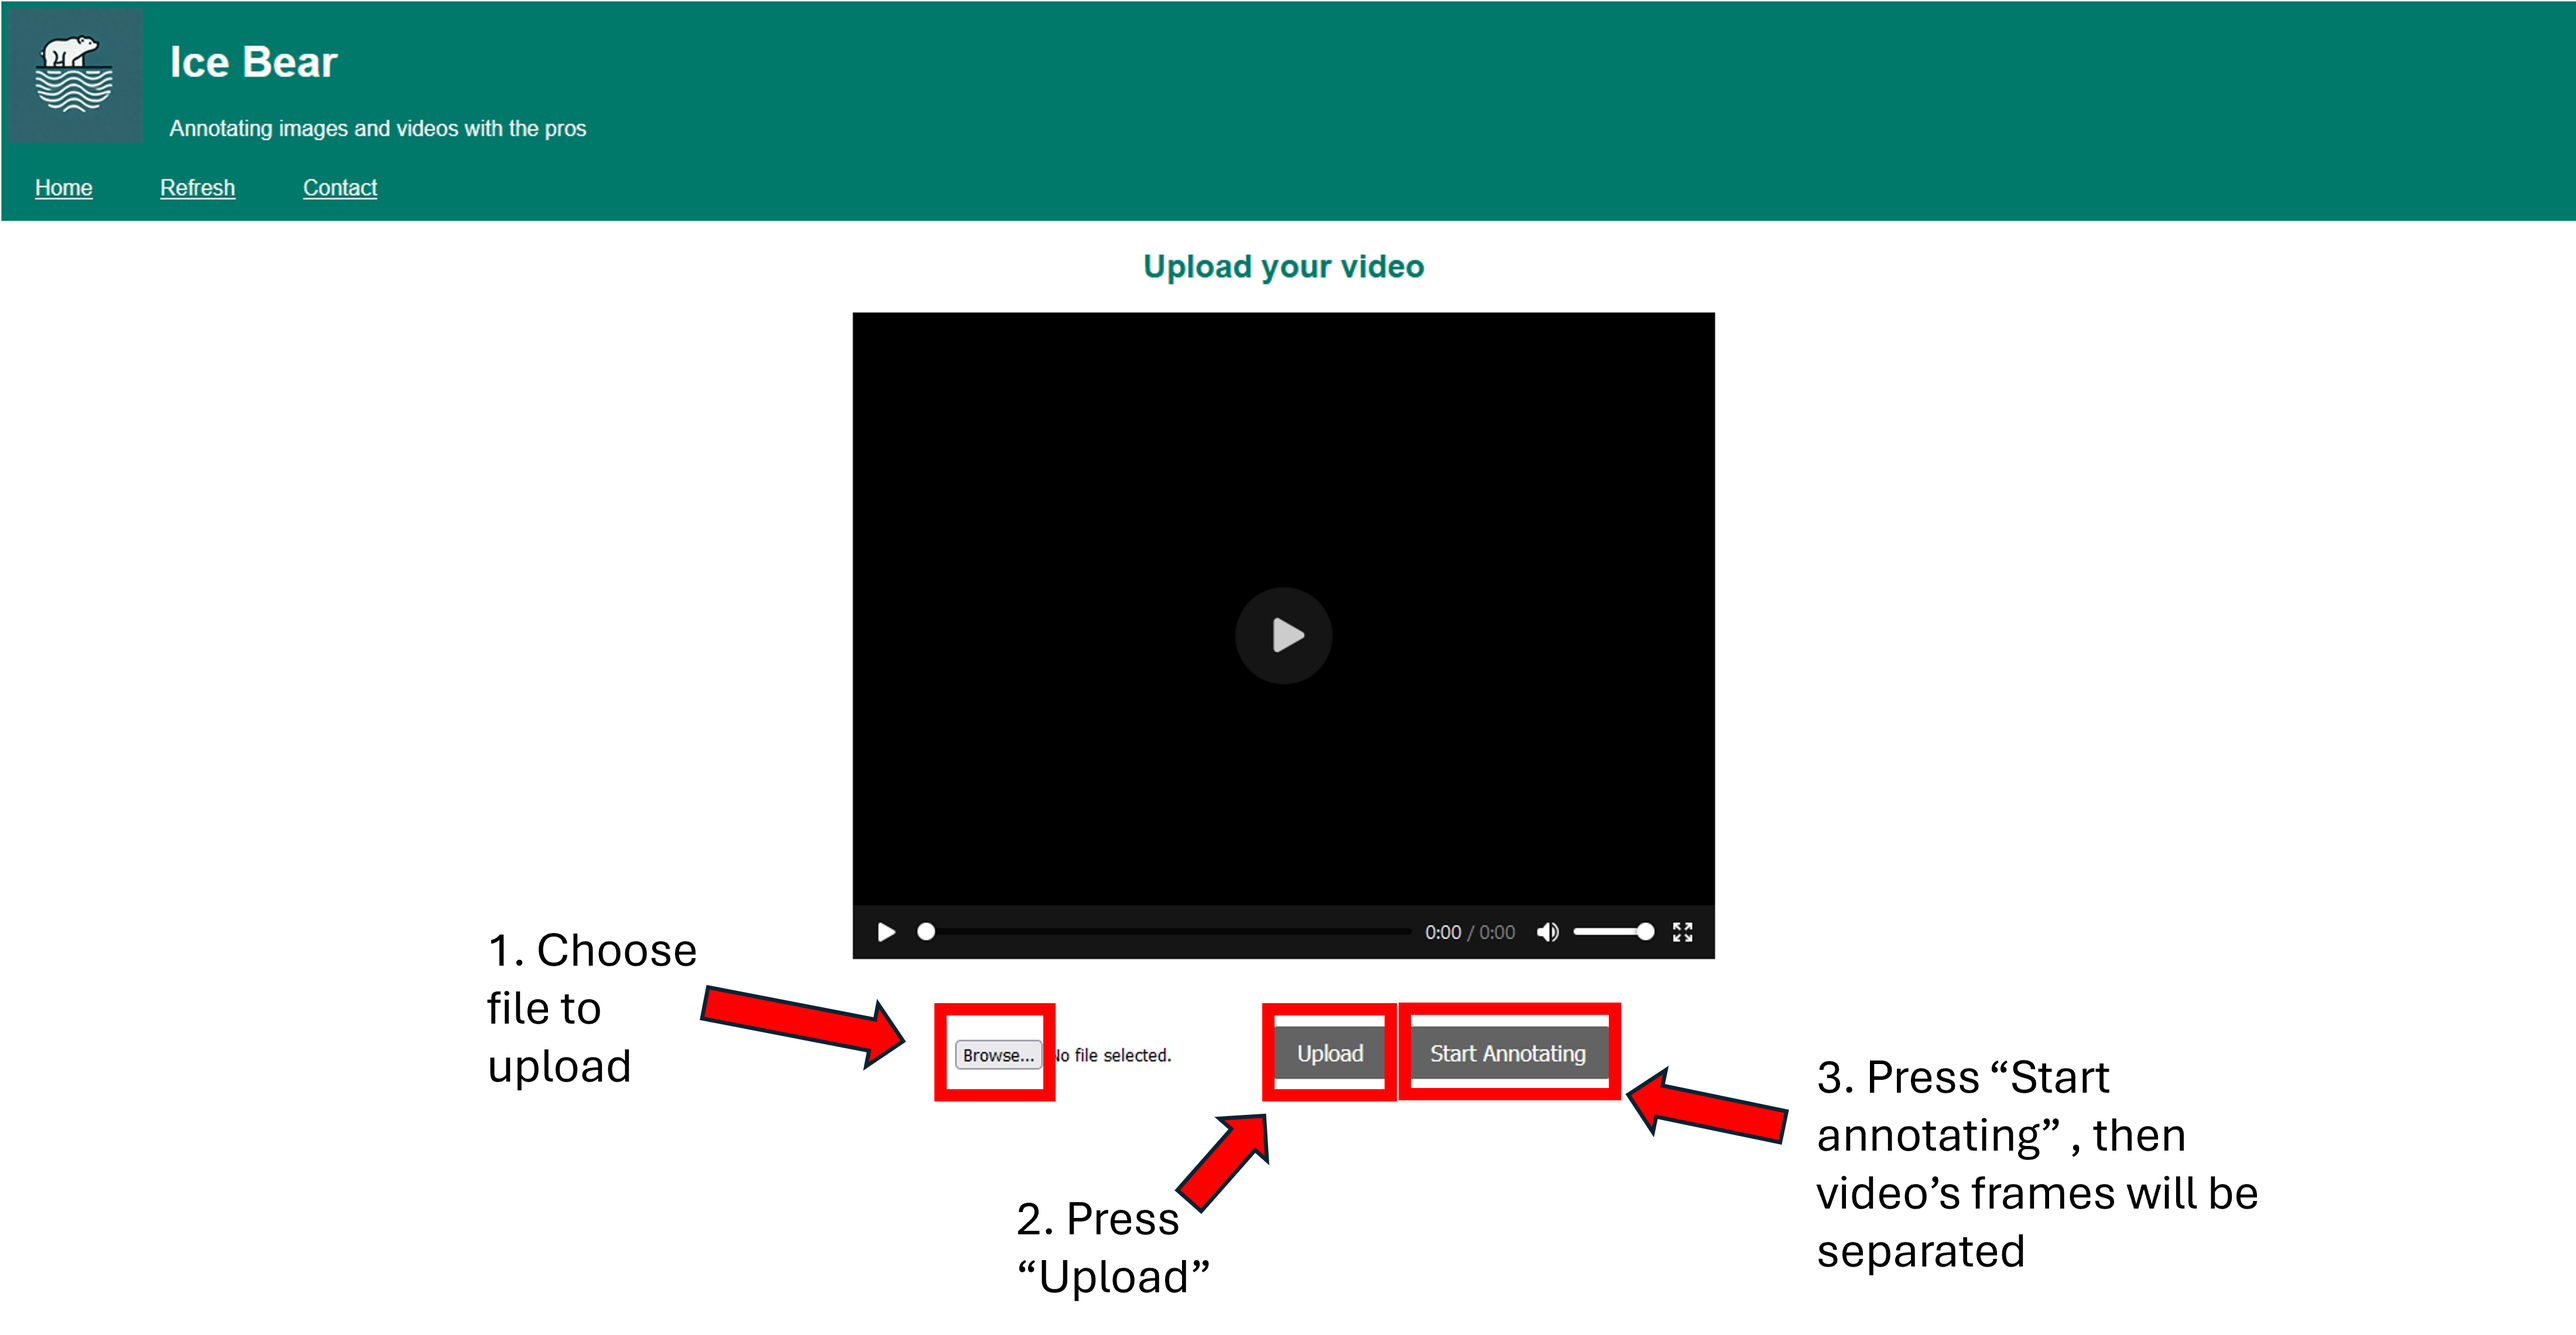
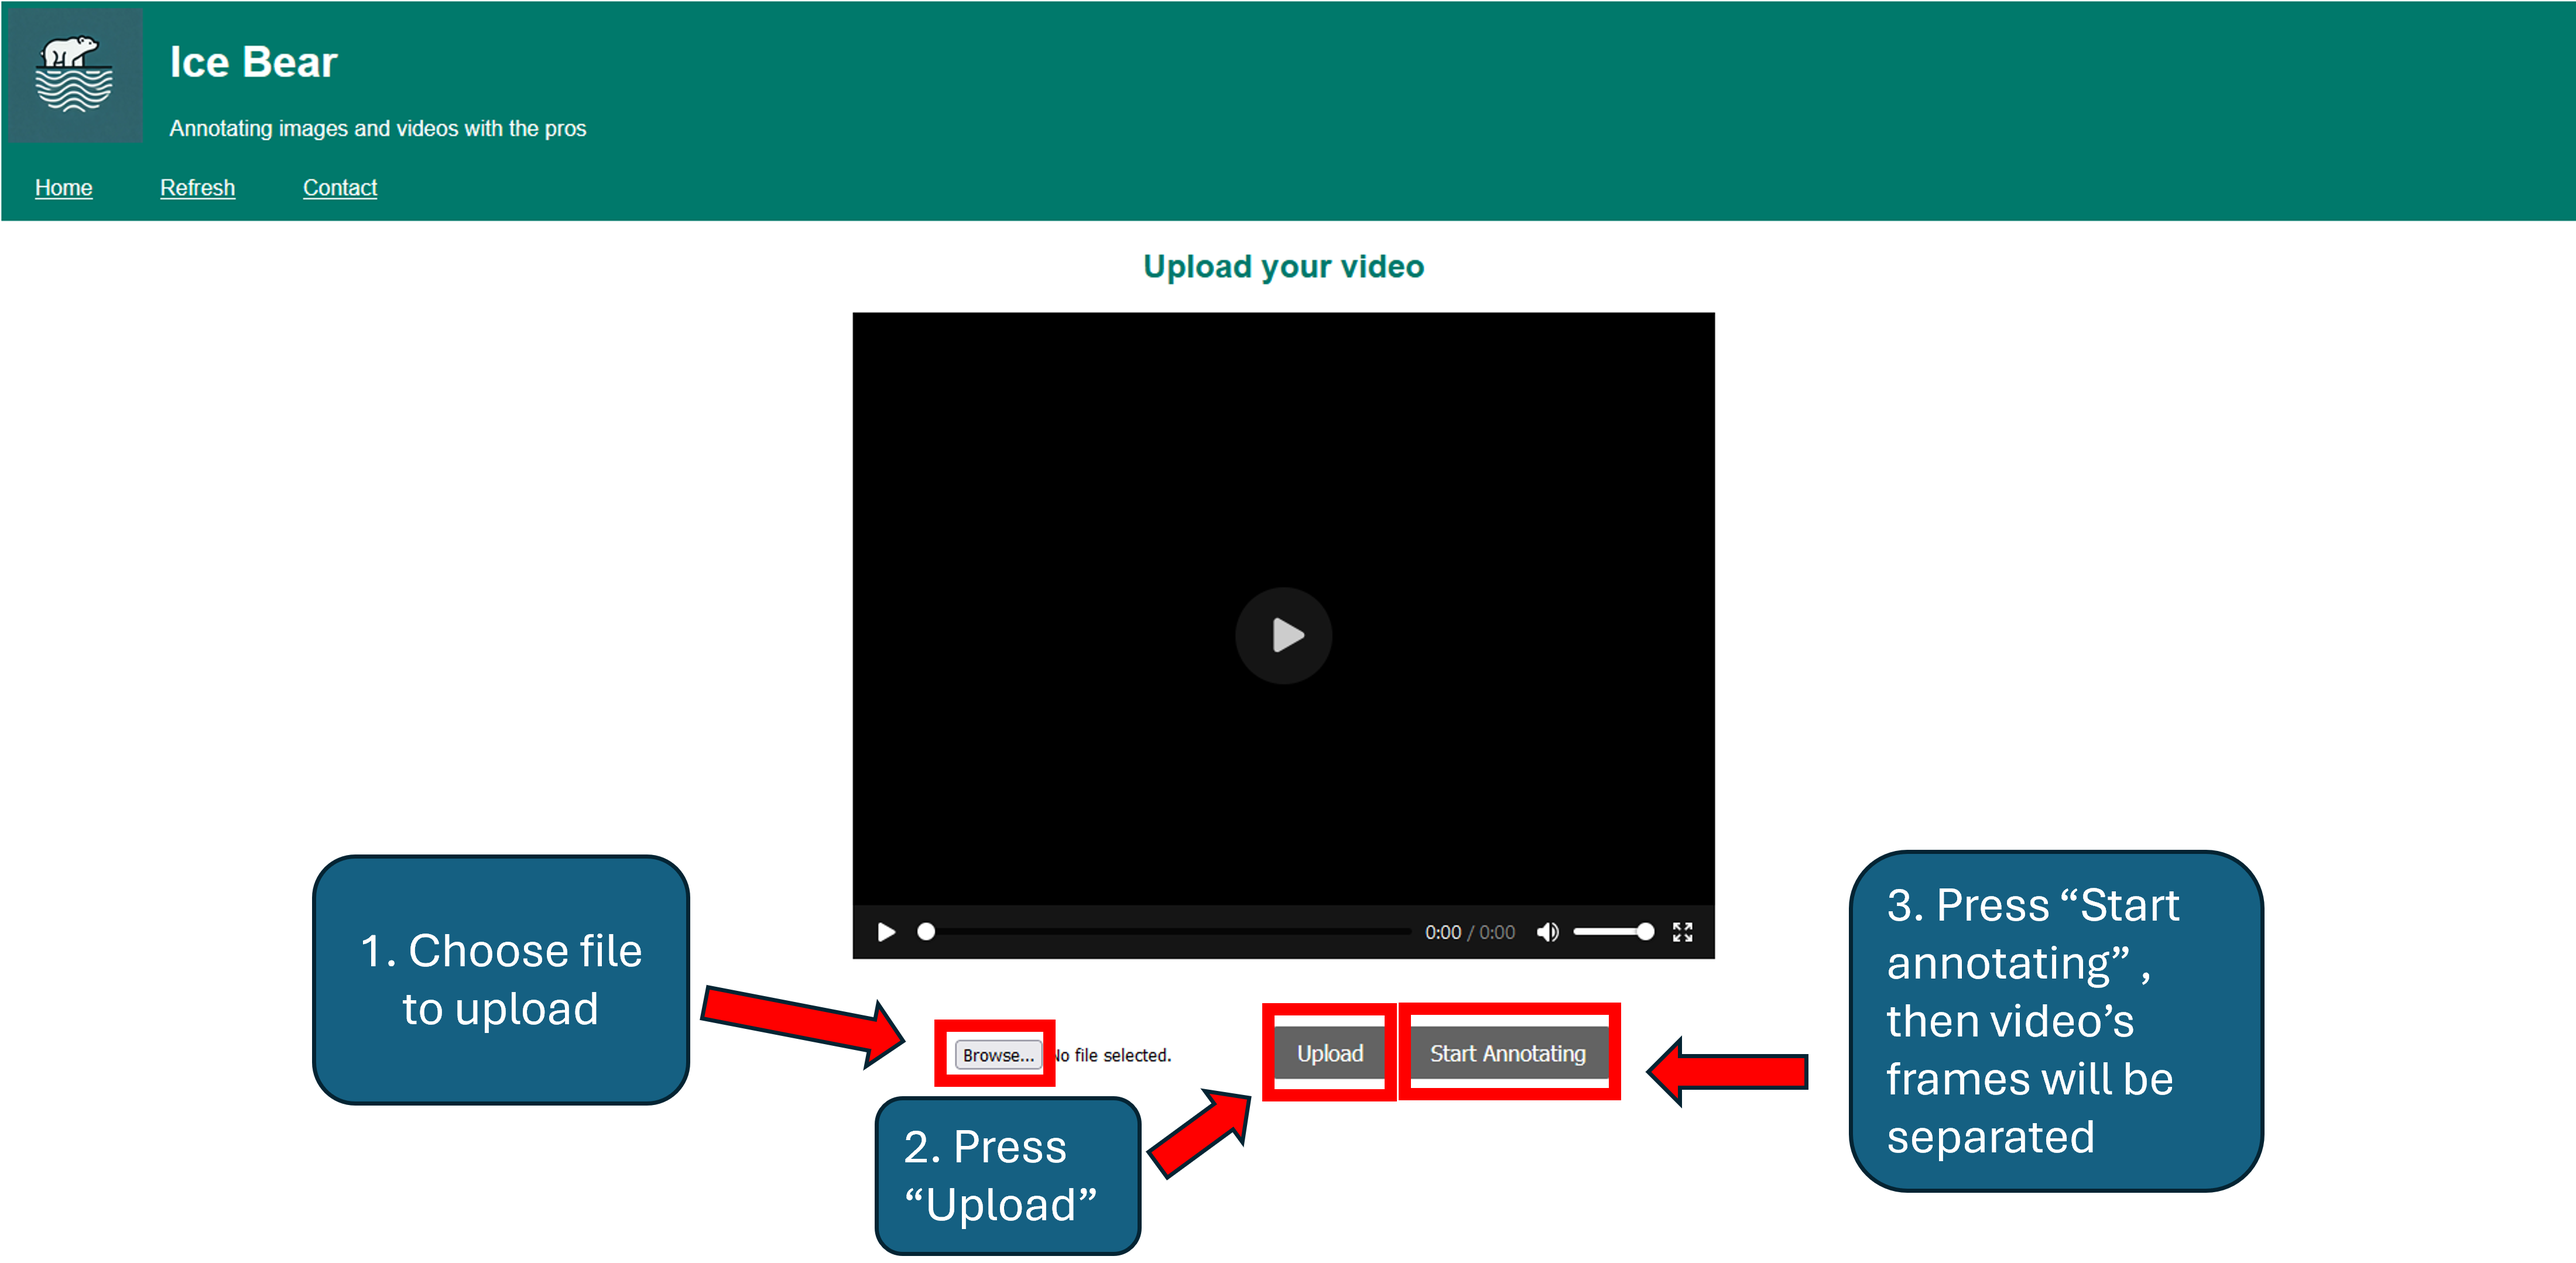
images

Changed region(s): [[0.0934, 0.652, 0.903, 1.0], [0.0, 0.031, 1.0, 0.2484], [0.467, 0.4657, 0.5293, 0.5278]]

diff --git a/INSTRUCT.md b/INSTRUCT.md
@@ -1,0 +1,18 @@
+# 🚀 Instruction 🚀
+
+## Uploading Video ->  
+![upload](images/1.1.png)
+
+## Selecting Frame from seperated frames from video
+![choose_frame](images/2.1.png)
+
+## Select the detected objects by placing a pointer on them 
+![set_up](images/3.1.png)
+
+▶ Press the 'Generate Masks' button to review the generated masks and verify they meet your expectations ->
+![generated_masks](images/4.1.png)
+
+▶ Propagate the masks through the video ->  
+▶ If one or more labeled frames are incorrect, select a frame to edit the mask ->  
+▶ Generate new labeled data ->  
+▶ Export the results in YOLO training dataset format. 
